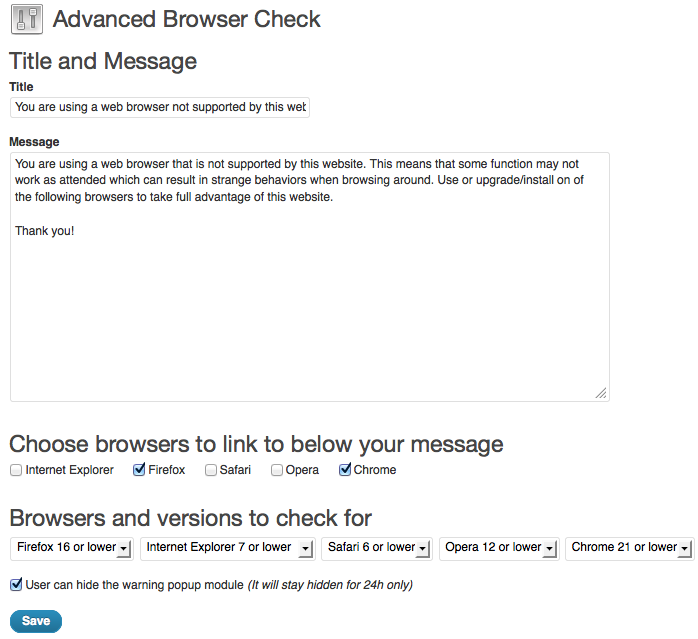
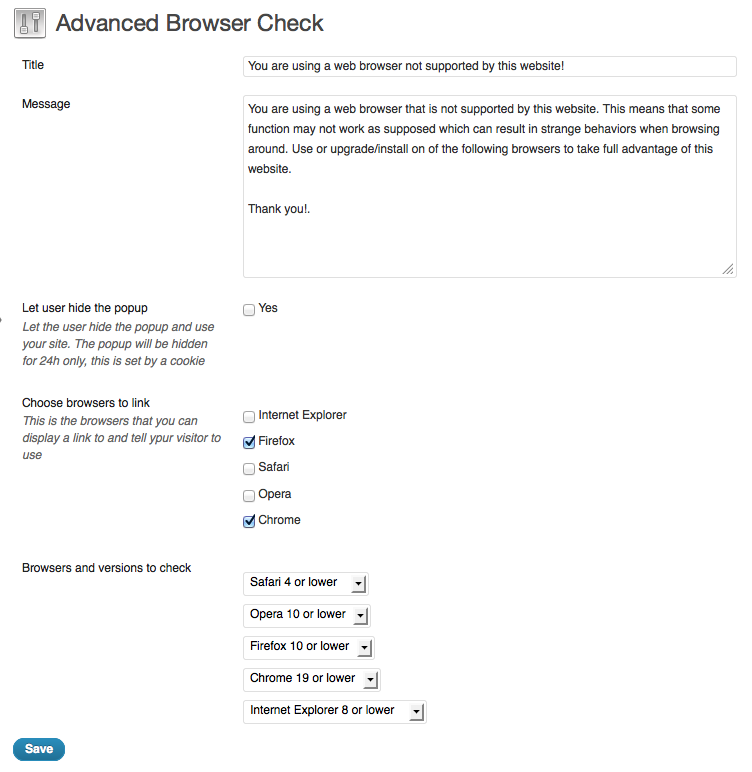
update function in place, better commenting in code and updated readme. v2.0.0 done

diff --git a/css/style.css b/css/style.css
@@ -11,7 +11,6 @@
 
 .adv_browser_check {
 	width: 720px;
-	margin: 0 auto;
 	position: fixed;
 	top: 25%;
 	left: 50%;
@@ -31,9 +30,6 @@
 	font-weight: bold;
 	font-size: large;
 	color: #333;
-}
-
-.adv_browser_check a.abc-hide {
 }
 
 .adv_browser_check_msg {

diff --git a/init.php b/init.php
@@ -1,8 +1,13 @@
 <?php
+/**
+* Default settings and settings array used trough out the plugin
+**/
 function abc_setting_values() {
+
+	// If this is the first time the plugin is activated, add all default values to the WP option
 	add_option('abc_title', 'You are using a web browser not supported by this website!');
 	add_option('abc_message', 'You are using a web browser that is not supported by this website. This means that some function may not work as supposed which can result in strange behaviors when browsing around. Use or upgrade/install on of the following browsers to take full advantage of this website. - Thank you!');
-	add_option('abc_show', NULL);
+	add_option('abc_hide', NULL);
 	add_option('abc_show', array(
 		'ie' 		=> '',
 		'ff' 		=> 'http://www.mozilla.com/en-US/firefox/all.html',
@@ -18,6 +23,10 @@ function abc_setting_values() {
 		'chrome' 	=> '20'
 	));
 
+	// Run update function, this is where the plugin version number is update
+	abc_update();
+
+	// Return the settings in array format
 	return array(
 		'title' 		=> get_option('abc_title'),
 		'msg' 			=> get_option('abc_message'),
@@ -27,25 +36,67 @@ function abc_setting_values() {
 	);
 }
 
+/**
+* Sets plugin version and there update functions will be added when larger updates is made
+**/
+function abc_update() {
+
+	// If no version number exists, we need to update the settings to v2.0.0 and above
+	if (!get_option('abc_version')) {
+
+		// Get old settings array
+		$old_settings = get_option('advanced-browser-check');
+
+		// Add the old settings to the new once
+		update_option('abc_title', $old_settings['title']);
+		update_option('abc_message', $old_settings['msg']);
+		update_option('abc_show', $old_settings['show_browser']);
+		update_option('abc_check', $old_settings['check_browser']);
+		update_option('abc_hide', $old_settings['hide']);
+
+		// Delete the old settings array from the DB
+		delete_option('advanced-browser-check');
+
+	}
+
+	update_option('abc_version', ABC_VERSION);
+
+}
+
+/**
+* Default browsers settings. This builds the browser dropdowns on the admin page
+**/
 function abc_default_browsers() {
 	return array(
-		'safari'	=> array(0,3,4,5,6,7),
-		'opera'		=> array(0,8,9,10,11,12,13),
-		'ff' 		=> array(0,10,11,12,13,14,15,16,17),
-		'chrome'	=> array(0,18,19,20,21,22,23),
-		'ie'		=> array(0,6,7,8,9,10)
+		'safari'	=> array(0,3,4,5,6,7,8,9),
+		'opera'		=> array(0,7,8,9,10,11,12,13,14,15,16),
+		'ff' 		=> array(0,6,7,8,9,10,11,12,13,14,15,16,17,18,19,20),
+		'chrome'	=> array(0,13,14,15,16,17,18,19,20,21,22,23,24,25),
+		'ie'		=> array(0,5,6,7,8,9,10,11)
 	);
 }
 
-// Stylesheet
+/**
+* Styles and scripts needed for the plugin to work
+**/
 function abc_styles_and_scripts() {
+	// Load jQuery
 	wp_enqueue_script("jquery");
+
+	// jQuery cookie, used to add a cookie so visitors can hide the popup
 	wp_enqueue_script("jquery.cookie", plugins_url('/js/jquery.cookie.js', __FILE__));
+
+	// The ajax request so the plugin works with caching plugins
 	wp_enqueue_script("abc_script", plugins_url('/js/script.js', __FILE__));
+
+	// Stylesheet for the popup
 	wp_enqueue_style("abc_style", plugins_url('/css/style.css', __FILE__));
 }
 add_action('wp_enqueue_scripts', 'abc_styles_and_scripts');
 
+/**
+* The wrapper, added to the site footer, that the popup will be placed in after the ajax load
+**/
 function abc_wrapper() {
 	echo "<div class='advanced-browser-check' style='display:none;' data-url='".json_encode(array("abc_url" => plugins_url("advanced-browser-check.php",__FILE__)))."'></div>";
 }

diff --git a/output.php b/output.php
@@ -4,18 +4,17 @@
 // ========================
 class abc_output {
 
+	/**
+	* Check if we should display the popup
+	**/
 	function html() {
-		$user_browser = $this->getBrowser();
-		// $abc_options = get_option('advanced-browser-check');
-		$abc_options = abc_setting_values();
-
-		// print_r($abc_options);
-
+		$user_browser 	= $this->getBrowser();
+		$abc_options 	= abc_setting_values();
 		$check_browsers = $abc_options['check_browser'];
-		$show_browsers = $abc_options['show_browser'];
-		$title = $abc_options['title'];
-		$msg = $abc_options['msg'];
-		$hide = $abc_options['hide'];
+		$show_browsers 	= $abc_options['show_browser'];
+		$title 			= $abc_options['title'];
+		$msg 			= $abc_options['msg'];
+		$hide 			= $abc_options['hide'];
 
 		foreach($check_browsers as $browser => $version) {
 			if($user_browser['short_name'] === $browser && $user_browser['version'] <= $version.'______________________________') {
@@ -25,6 +24,9 @@ class abc_output {
 		}
 	}
 
+	/**
+	* Build up the HTML for the popup
+	**/
 	private function build_html($title = NULL, $msg = NULL, $show_browsers = array(), $hide = NULL, $ie6 = '') {
 		$html = '<div class="adv_browser_check '.$ie6.'">';
 			$html .= '<div class="adv_browser_check_msg">';
@@ -46,6 +48,9 @@ class abc_output {
 		return $html;
 	}
 
+	/**
+	* Get the visitors browser, browser version and platform
+	**/
 	private function getBrowser()
 	{
 		$u_agent = $_SERVER['HTTP_USER_AGENT'];
@@ -121,6 +126,9 @@ class abc_output {
 
 }
 
+/**
+* Output the popup
+**/
 function abc_output() {
 	$output = new abc_output;
 	echo $output->html();

diff --git a/advanced-browser-check.php b/advanced-browser-check.php
@@ -2,11 +2,13 @@
 /*
 Plugin Name: Advanced Browser Check
 Plugin URI: http://www.darkwhispering.com
-Description: Do you want to give all IE users a warning to change browser? Or is your site built specificly for chrome? This plugin lets you choose what browsers should trigger a warning popup or not on your site.
+Description: Tell IE users to change browser? Or is your site for chrome only? Now you choose what browsers should trigger a warning popup or not on your site.
 Author: Mattias Hedman
-Version: 1.0.2
+Version: 2.0.0
 Author URI: http://www.darkwhispering.com
 */
+
+define('ABC_VERSION', '2.0.0');
 
 // Check if the file is loaded via AJAX
 if($_POST['ajax']) {
